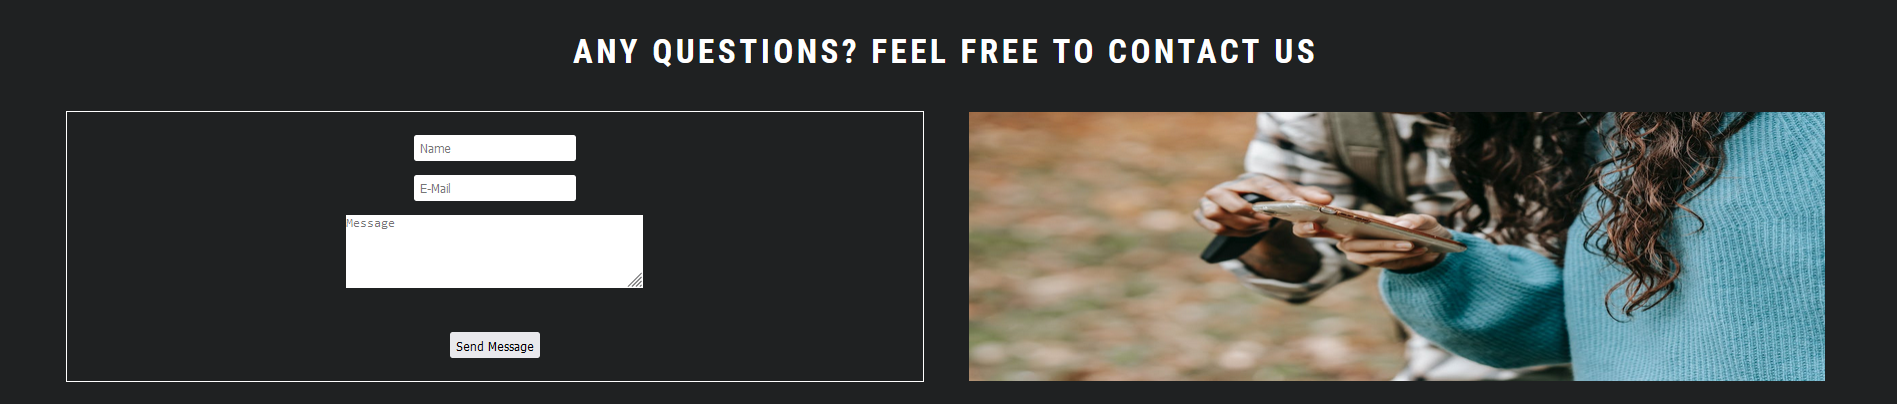
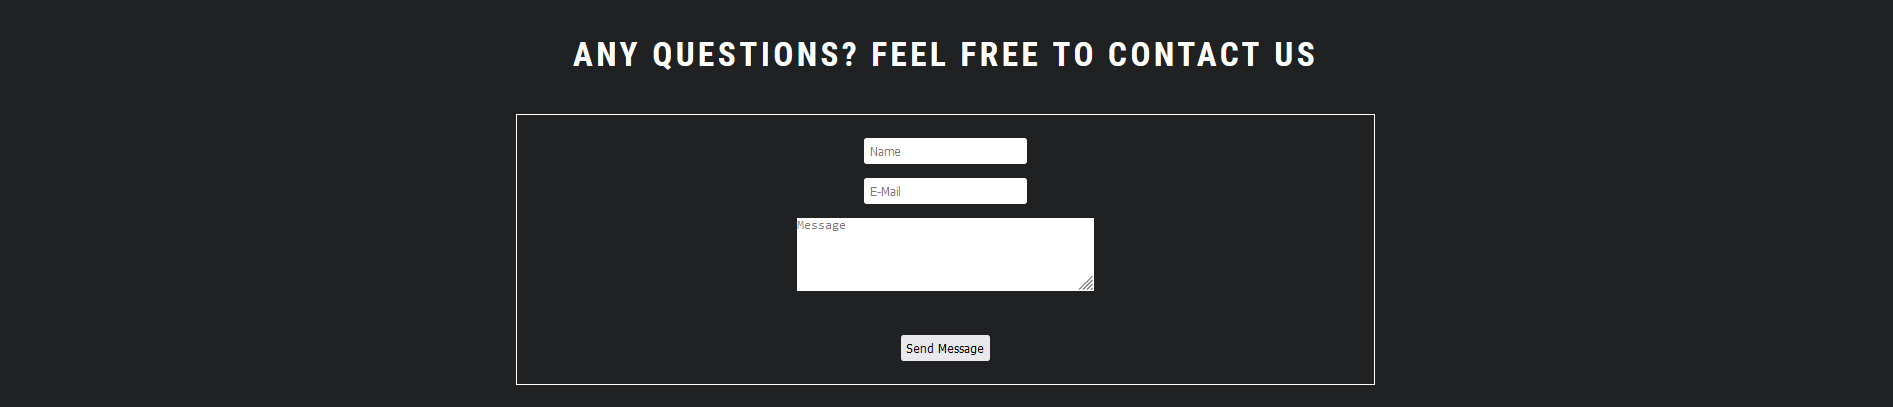
replace feature05 img readme

diff --git a/index.html b/index.html
@@ -137,8 +137,6 @@
                     </div>
                 </fieldset>
             </form>
-
-            <i class="fa-solid fa-message"></i>
         </div>
     </section>
 
